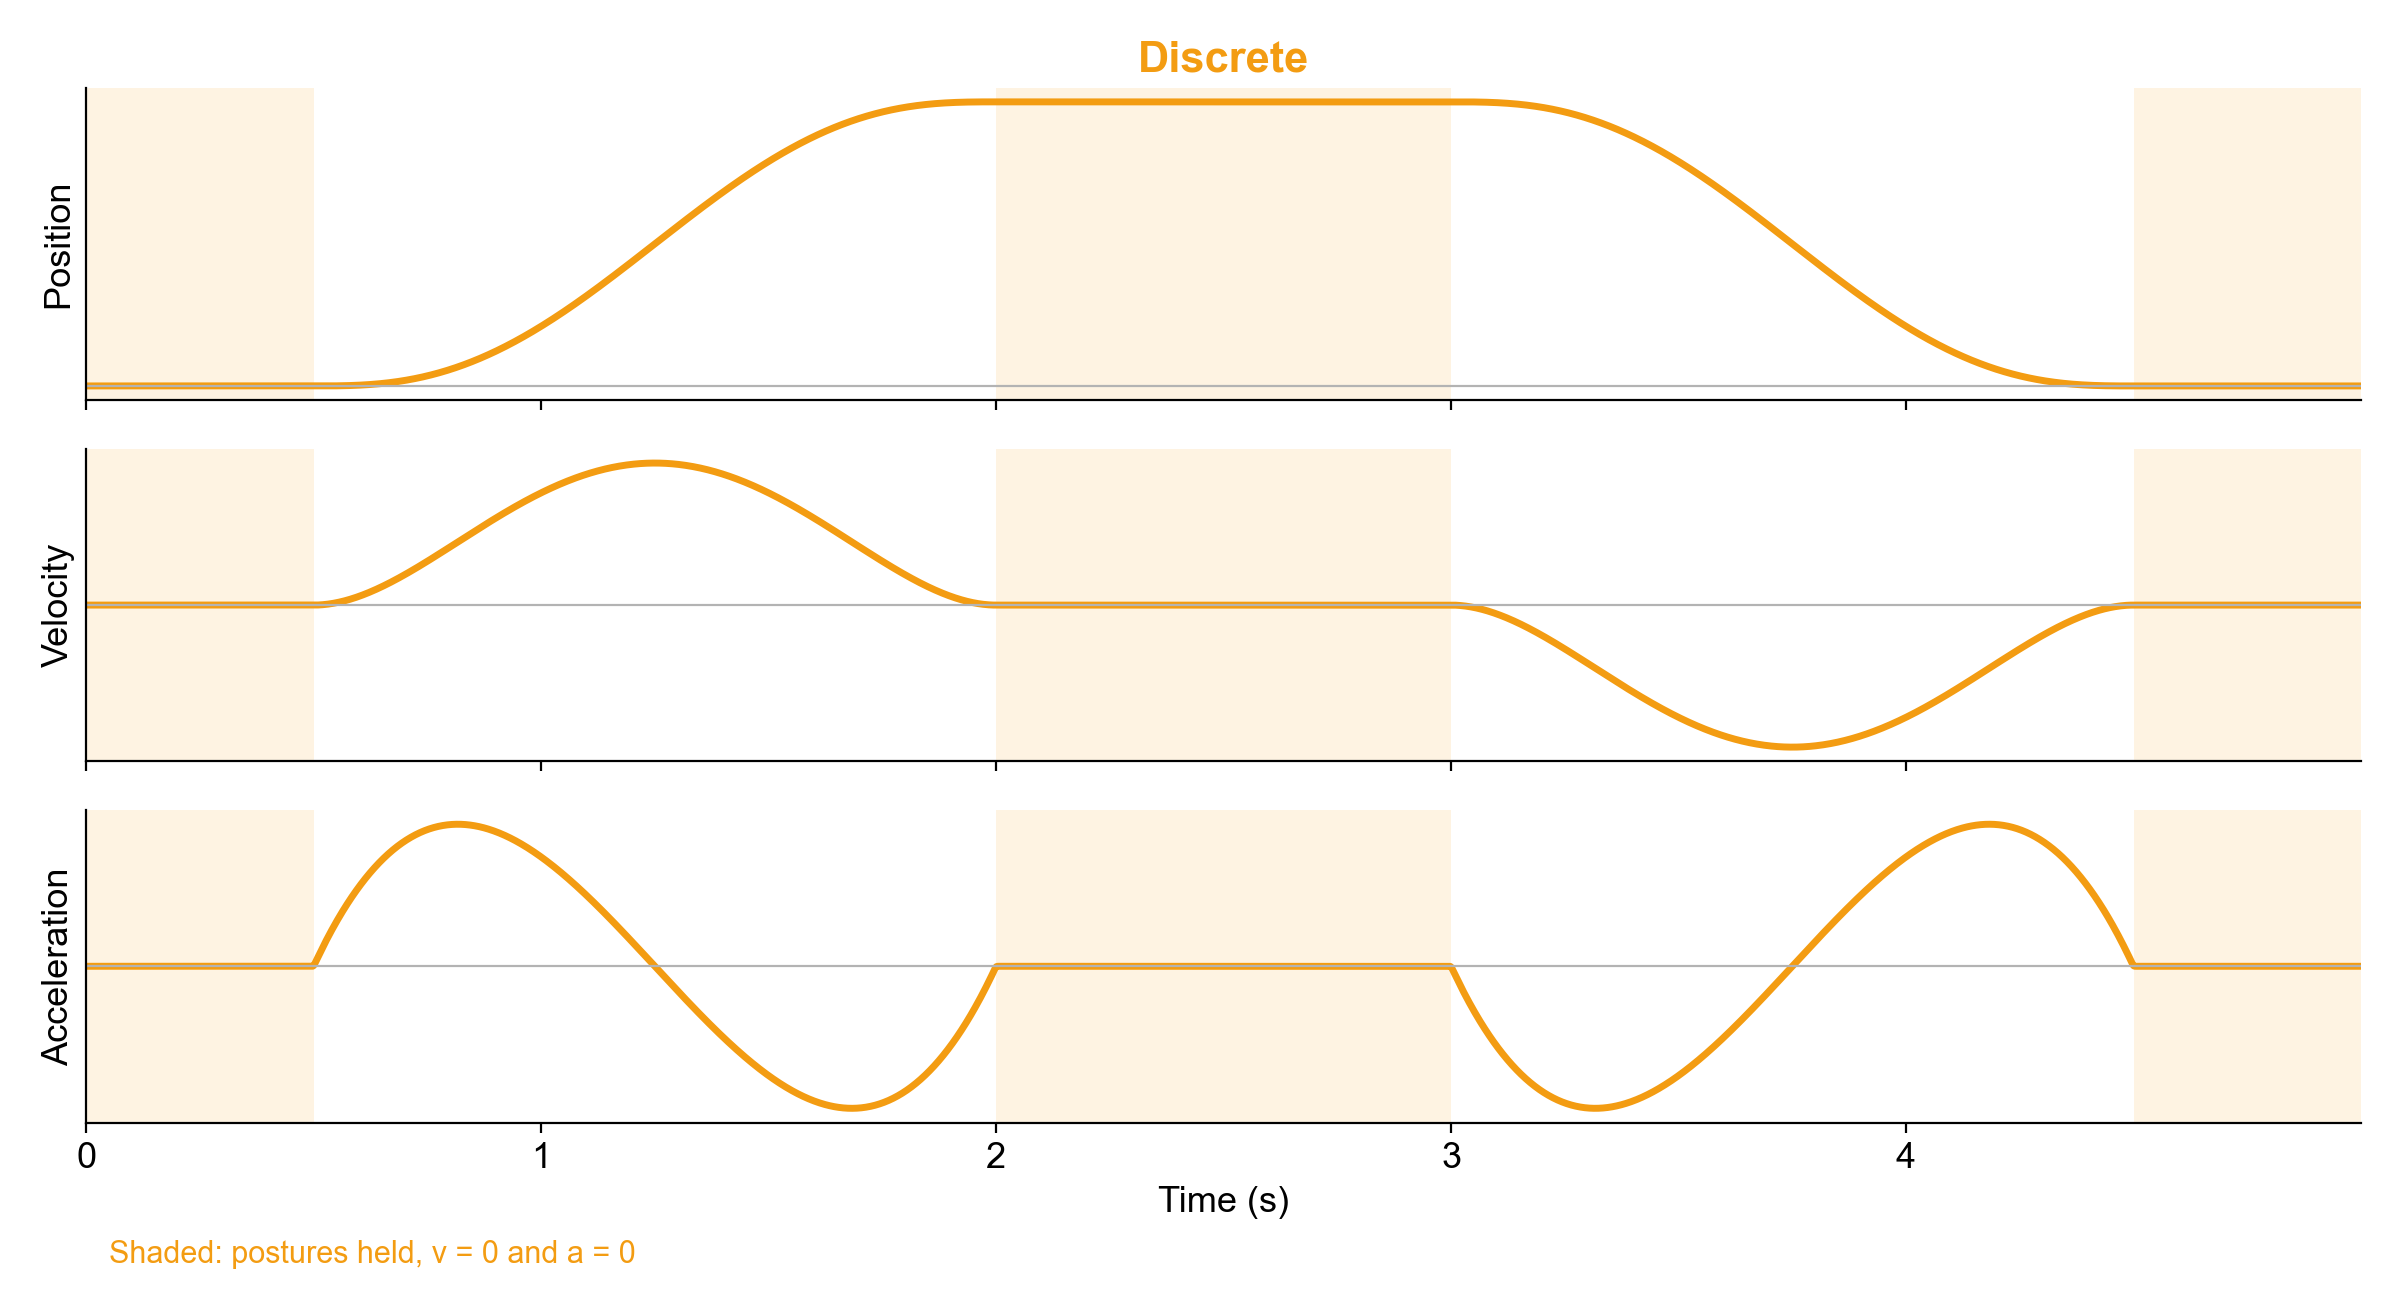
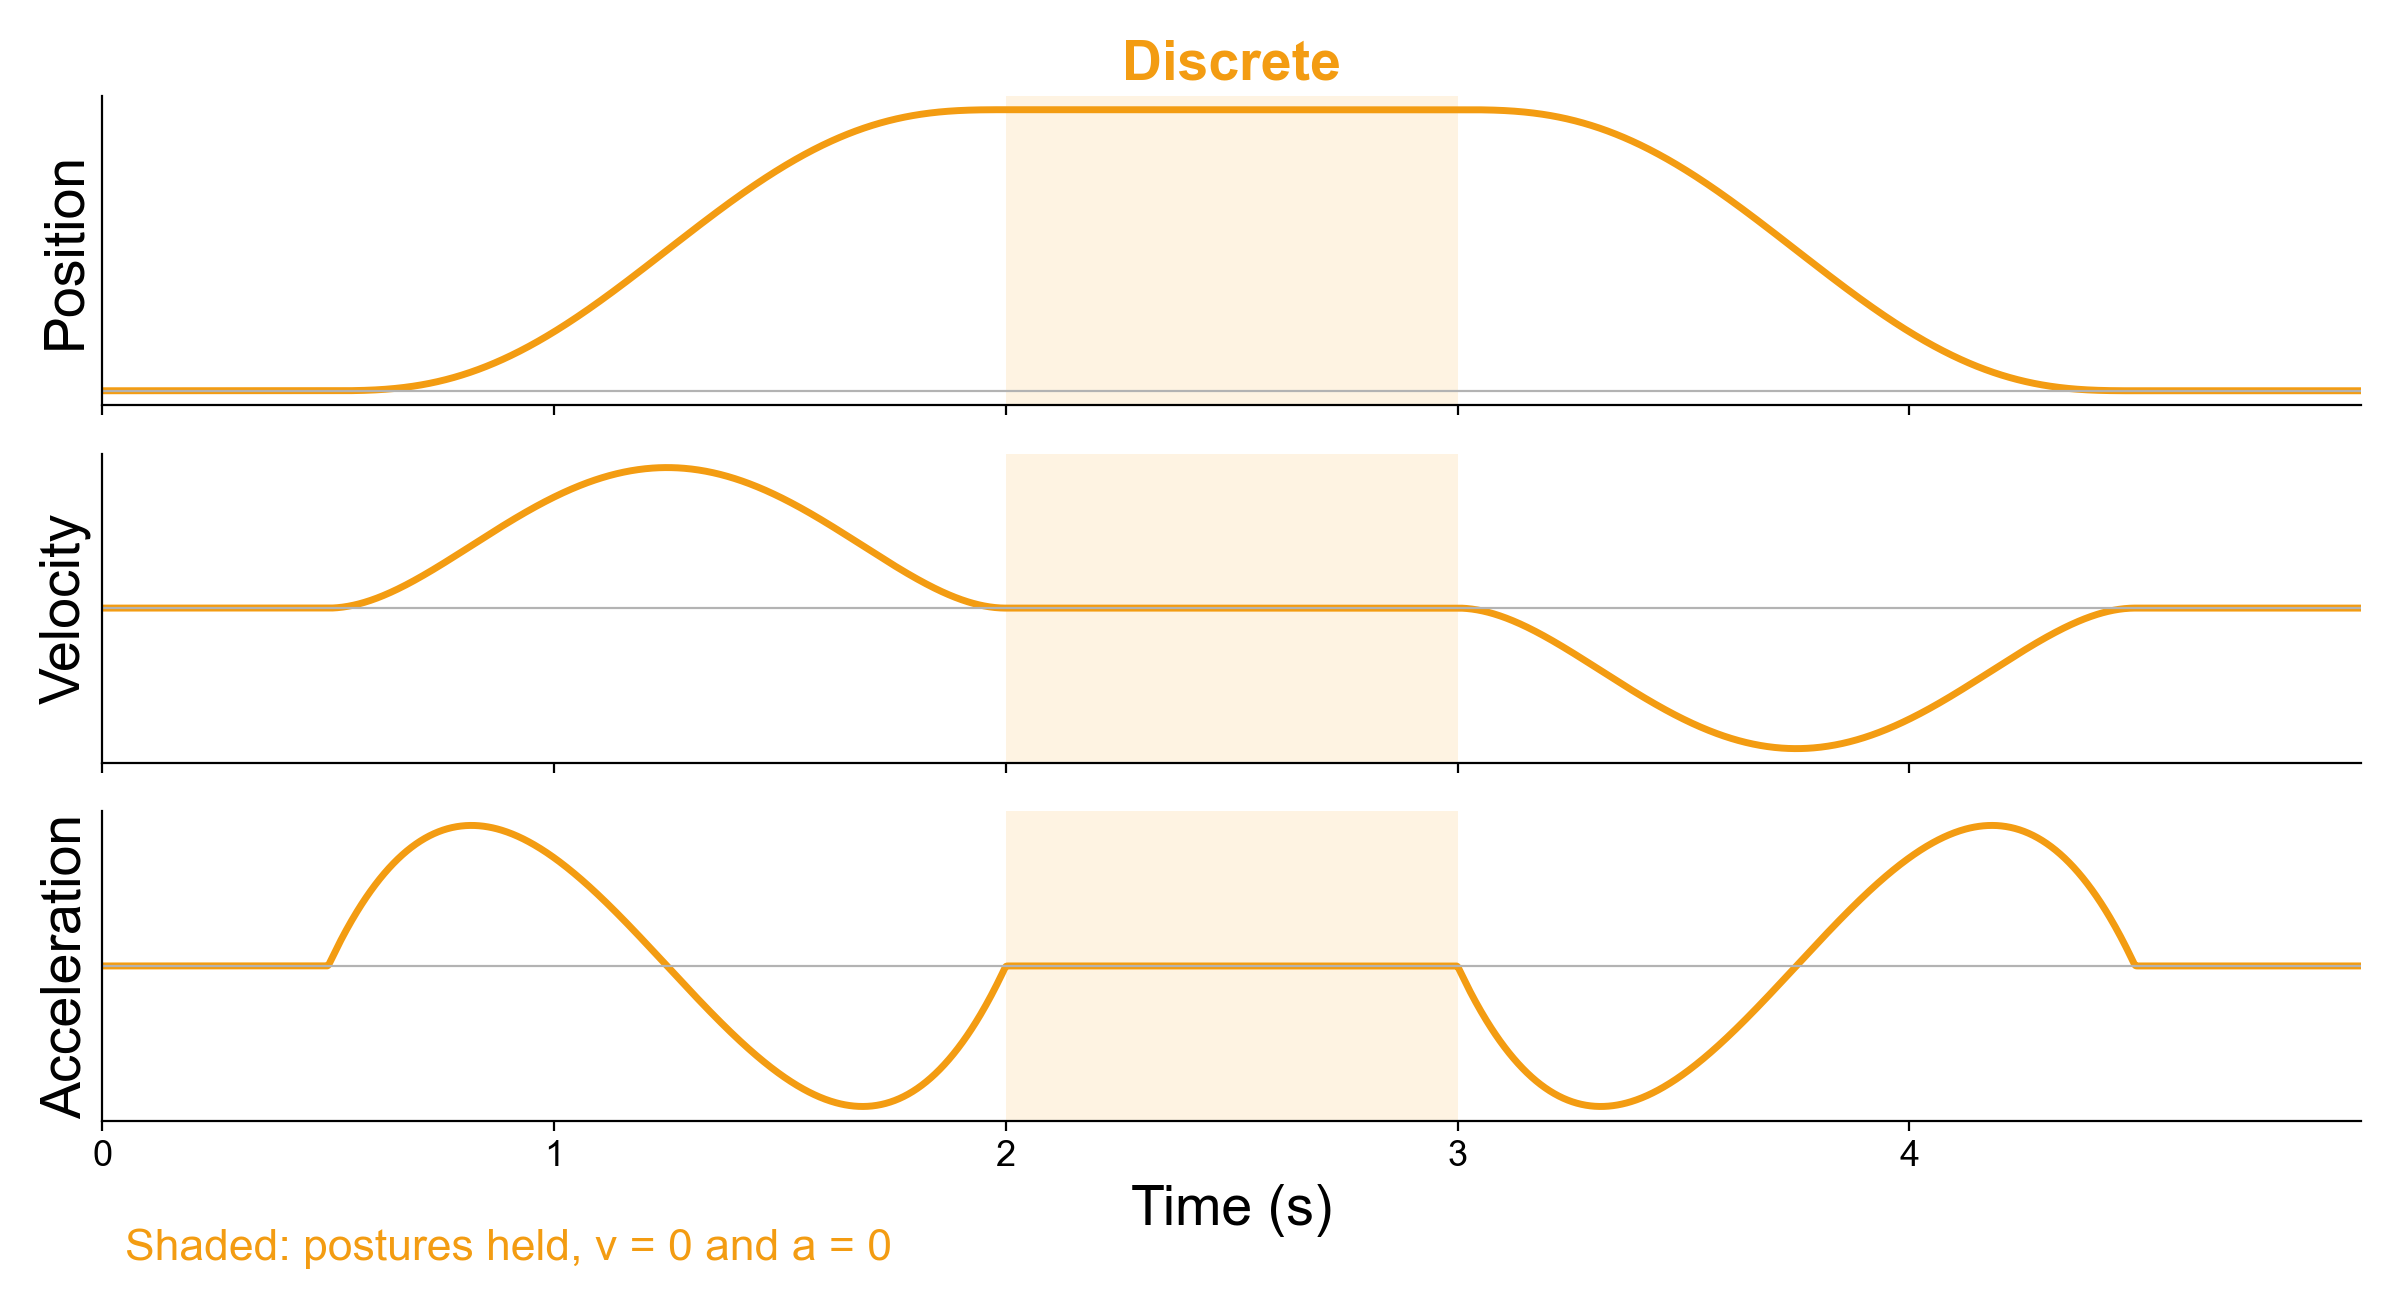
single figures for D and R

diff --git a/discrete_rhythmic.py b/discrete_rhythmic.py
@@ -58,25 +58,25 @@ def static_fig():
             axx.plot(t, y, color=c, lw=2.5)
             axx.axhline(0, color="0.7", lw=0.8)
             axx.set_yticks([])            
-            axx.set_ylabel(lab)
+            axx.set_ylabel(lab, fontsize=20)
             if title == "Discrete":
-                for w in dwell_windows:
-                    axx.axvspan(w[0], min(w[1], T_total), color=C_D, alpha=0.12, lw=0)
+                w = dwell_windows[1]                
+                axx.axvspan(w[0], min(w[1], T_total), color=C_D, alpha=0.12, lw=0)
             else:
                 for tr in rev_t:
-                    axx.axvline(tr, color=C_R, ls=":", lw=1)
+                    axx.axvline(tr, color=C_R, ls=":", lw=2)
                 if row > 0:
                     i = np.clip((rev_t * fs).astype(int), 0, len(t) - 1)
-                    axx.plot(t[i], y[i], "o", color=C_R, ms=7, mfc="white", mew=2)
-        ax[0].set_title(title, fontweight="bold", color=c)
-        ax[2].set_xlabel("Time (s)"); ax[2].set_xticks([0, 1, 2, 3, 4])
+                    axx.plot(t[i], y[i], "o", color=C_R, ms=10, mfc="white", mew=2)
+        ax[0].set_title(title, fontweight="bold", color=c, fontsize=20)
+        ax[2].set_xlabel("Time (s)", fontsize=20); ax[2].set_xticks([0, 1, 2, 3, 4])
 
         if title == "Discrete":
             ax[2].text(0.01, -0.45, "Shaded: postures held, v = 0 and a = 0",
-                    transform=ax[2].transAxes, color=C_D, fontsize=11)
+                    transform=ax[2].transAxes, color=C_D, fontsize=16)
         else:
             ax[2].text(0.01, -0.45, "Dotted: reversals, v = 0 while |a| is maximal",
-                    transform=ax[2].transAxes, color=C_R, fontsize=11)
+                    transform=ax[2].transAxes, color=C_R, fontsize=16)
         fig.tight_layout()
         tit = "figures/%s.png" % title.lower()
         fig.savefig(tit, dpi=200, transparent=True)
@@ -129,6 +129,6 @@ def animation():
 # %% 
 if __name__ == "__main__":
     static_fig()
-    animation()
+    #animation()
 
 # %%
